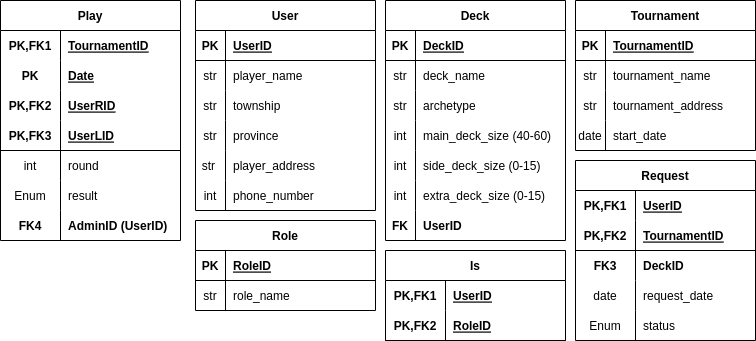
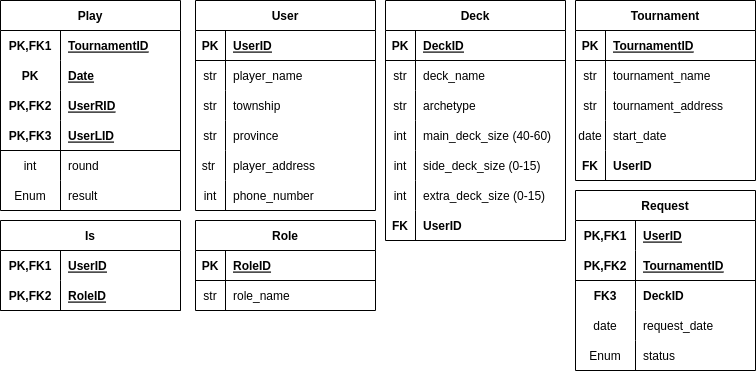
design

diff --git a/database_design/informe.tex b/database_design/informe.tex
@@ -48,14 +48,12 @@
 Con el objetivo de validar las peticiones de los usuarios, as\'i como dar respuesta a las consultas de los mismos, es necesario mantener diversas informaciones en una base de datos:
 \begin{enumerate}
 	\item \textbf{Usuario:} De los usuarios se deben almacenar: un identificador para cada usuario, el nombre completo, el tel\'efono, la direcci\'on, el municipio y la provincia.
-	\item \textbf{Deck:} De los decks se deben almacenar: un identificador para cada deck distinto, el nombre del deck, la cantidad de cartas en el mazo principal, en el mazo alternativo y en el mazo extra, y el arquetipo.
-	\item \textbf{Torneo:} De los torneos se debe almacenar: un identificador para cada torneo, nombre del torneo, fecha de inicio y direcci\'on.
+	\item \textbf{Deck:} De los decks se deben almacenar: un identificador para cada deck distinto, el nombre del deck, la cantidad de cartas en el mazo principal, en el mazo alternativo y en el mazo extra, el arquetipo y el usuario que lo cre\'o.
+	\item \textbf{Torneo:} De los torneos se debe almacenar: un identificador para cada torneo, nombre del torneo, fecha de inicio, direcci\'on y el administrador que lo cre\'o.
 	\item \textbf{Rol:} Para cada uno de los roles que puede desempe\~nar un usuario en la aplicaci\'on se guarda un identificador y el nombre del rol.
 	\item \textbf{Partida:} De las partidas se debe almacenar: el identificador de cada usuario que participa(2 en total), el identificador del torneo al cual pertenece, la fecha exacta en la cual se realiza, el resultado de la partida(solo hay 4 resultados posibles: "2:1", "2:0", "1:2", "0:2") y la ronda del torneo en la cual se realiza.
-	\item \textbf{Solicitud de inscripci\'on en torneos:} Los jugadores solicitan inscribirse en alg\'un torneo disponible y estas solicitudes se almacenan hasta que alg\'un administrador las acepte e iscriba al jugador o las rechase. Para esto es necesario almacenar: el identificador del usuario, el identificador del torneo, el identificador del deck con el cual se desea inscribir y la fecha en la cual raliz\'o la solicitud. 
-	\item \textbf{Registro en torneo:} Cuando se registra un usuario en un torneo se debe almacenar: el identificador del usuario, el identificador del torneo y el identificador del deck con el cual se inscribi\'o.
-	\item \textbf{Registro de deck:} Cuando un usuario registra un deck como suyo se debe almacenar el identificador del usuario relacionado con el identificador del deck.
-	\item \textbf{Registro de usuario:} Para todos los usuarios se debe almacenar el identificador del usuario relacionado con el identificador del rol que este desempe\~na.
+	\item \textbf{Solicitud de inscripci\'on en torneos:} Los jugadores solicitan inscribirse en alg\'un torneo disponible y estas solicitudes se almacenan como pendientes hasta que alg\'un administrador las acepte e iscriba al jugador o las rechase. Para esto es necesario almacenar: el identificador del usuario, el identificador del torneo, el identificador del deck con el cual se desea inscribir, la fecha en la cual raliz\'o la solicitud y el estado de la solicitud. Los posibles estados son: pendiente, aceptado, rechazado.
+	\item \textbf{Registro de usuario:} Para todos los usuarios se debe almacenar el identificador del usuario relacionado con el identificador de cada rol que este desempe\~na.
 \end{enumerate} 
 \newpage
 \section{Modelo conceptual de la base de datos:}
@@ -153,6 +151,12 @@ Dados un esquema relacional $R (U, F)$ y una descomposición $\rho = (R1, R2, \l
 Mediante la aplicación del algoritmo pudimos hallar una descomposición $\rho$ que cumple con dos de las características de un diseño correcto. Ahora bien, la tercera condición (la satisfacción de PLJ) se puede comprobar fácilmente aplicando una de las consecuencias del lema que se presenta a continuación,
 
 \textbf{Consecuencia} Si la llave X de $R (U, F)$ está contenida completamente en alguno de los esquemas relacionales de la descomposición, entonces, se puede afirmar directamente que $\rho$ es un diseño correcto 
-En nuestro diserno se cumple con las tres propiedades requeridas las llaves candidatas (IDDeck, IDTournament) o (IDUser, IDTournament) y estas están completamente contenidas en $R5$.
+En nuestro diserno se cumple con las tres propiedades requeridas las llaves candidatas (IDDeck, IDTournament) o (IDUser, IDTournament) y estas están completamente contenidas en $R5$.\\ \\
+
+\begin{figure}[h]
+  \centering
+  \includegraphics[width=1\textwidth]{table.png}
+  \label{fig:etiqueta}
+\end{figure}
 
 \end{document}
